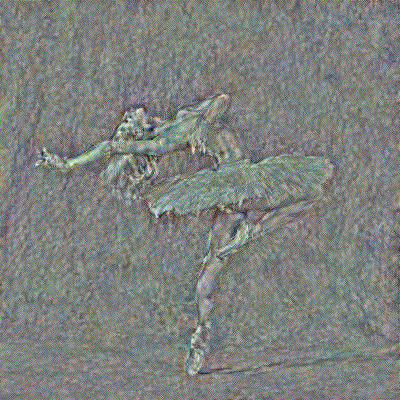
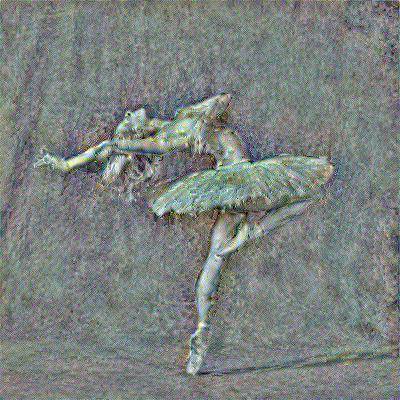
kinda done

diff --git a/utils.py b/utils.py
@@ -34,7 +34,7 @@ class Normalize(nn.Module):
     
     def forward(self, input):
         # im: B x C x H x W
-        return (input - torch.tensor([0.485, 0.456, 0.406]).view(-1, 1, 1)) / torch.Tensor([0.229, 0.224, 0.225]).view(-1, 1, 1)
+        return (input - torch.tensor([0.485, 0.456, 0.406]).view(1, -1, 1, 1)) / torch.Tensor([0.229, 0.224, 0.225]).view(1, -1, 1, 1)
     
 def gram_matrix(input):
     # a = batch, b = feature maps, c,d = dims of feature map
@@ -48,7 +48,7 @@ def gram_matrix(input):
 def create_neural_model(vgg19, content, style):
     """ Creates model and gets content and style activations for loss calculations.
     """
-    conv_indicies = [0, 5, 10, 19, 28]
+    relu_indicies = [1, 6, 11, 20, 29]
     content_losses, style_losses = [], []
     layers = list(vgg19.features.eval().children())
 
@@ -60,11 +60,13 @@ def create_neural_model(vgg19, content, style):
         layer = layers[i]
         if isinstance(layer, nn.ReLU):
             model.add_module(f'{i + 1}', nn.ReLU(inplace=False))
+        elif isinstance(layer, nn.MaxPool2d):
+            model.add_module(f'{i + 1}', nn.AvgPool2d(layer.kernel_size, layer.stride, layer.padding))
         else:
             model.add_module(f'{i + 1}', layer)
 
         # Get activations at layers of interest and add losses
-        if i in conv_indicies:
+        if i in relu_indicies:
             content_out = model(content).detach()
             style_out = model(style).detach()
             
@@ -73,16 +75,18 @@ def create_neural_model(vgg19, content, style):
             style_loss = StyleLoss(style_out)
             style_losses.append(style_loss)
 
-            model.add_module(f"content_loss_{i + 1}_1", content_loss)
-            model.add_module(f"style_loss_{i + 1}_1", style_loss)
+            model.add_module(f"content_{i + 1}", content_loss)
+            model.add_module(f"style_{i + 1}", style_loss)
 
+        if i == 29:
+            break
         i += 1
     return model, content_losses, style_losses
 
 def import_images(content_path, style_path, height=400):
     content_pil = Image.open(content_path)
     style_pil = Image.open(style_path)
-    resized_content = transforms.Resize(400)(content_pil)
+    resized_content = transforms.Resize(height)(content_pil)
 
     content = transforms.ToTensor()(resized_content) # Content
     resized_style = transforms.Resize((content.shape[1], content.shape[2]))(style_pil)
@@ -107,14 +111,14 @@ def train_image(input, model, optimizer, epochs, w_c, w_s, content_losses, style
             total_style_loss = 0
             content_loss = content_losses[content_layer - 1].loss
             for style_loss in style_losses[:style_layer]:
-                total_style_loss += 0.2 * style_loss.loss
+                total_style_loss += style_loss.loss
 
             # Calculate loss and backprop
             loss = w_c * content_loss + w_s * total_style_loss
             loss.backward()
 
             if epoch % 10 == 0:
-                print(f"[Epoch {epoch}] Total loss: {loss} Content loss: {content_loss} Style loss: {total_style_loss}")
+                print(f"[Epoch {epoch}] Total loss: {loss} Content loss: {w_c * content_loss} Style loss: {w_s * total_style_loss}")
             
             # Save results
             if epoch + 1 == 1 or epoch + 1 == step:

diff --git a/main.py b/main.py
@@ -21,6 +21,7 @@ input.requires_grad_(True)
 
 # Get model and losses
 model, content_losses, style_losses = create_neural_model(vgg19, content, style)
+print(model)
 model.eval()
 model.requires_grad_(False)
 optimizer = torch.optim.LBFGS([input])
